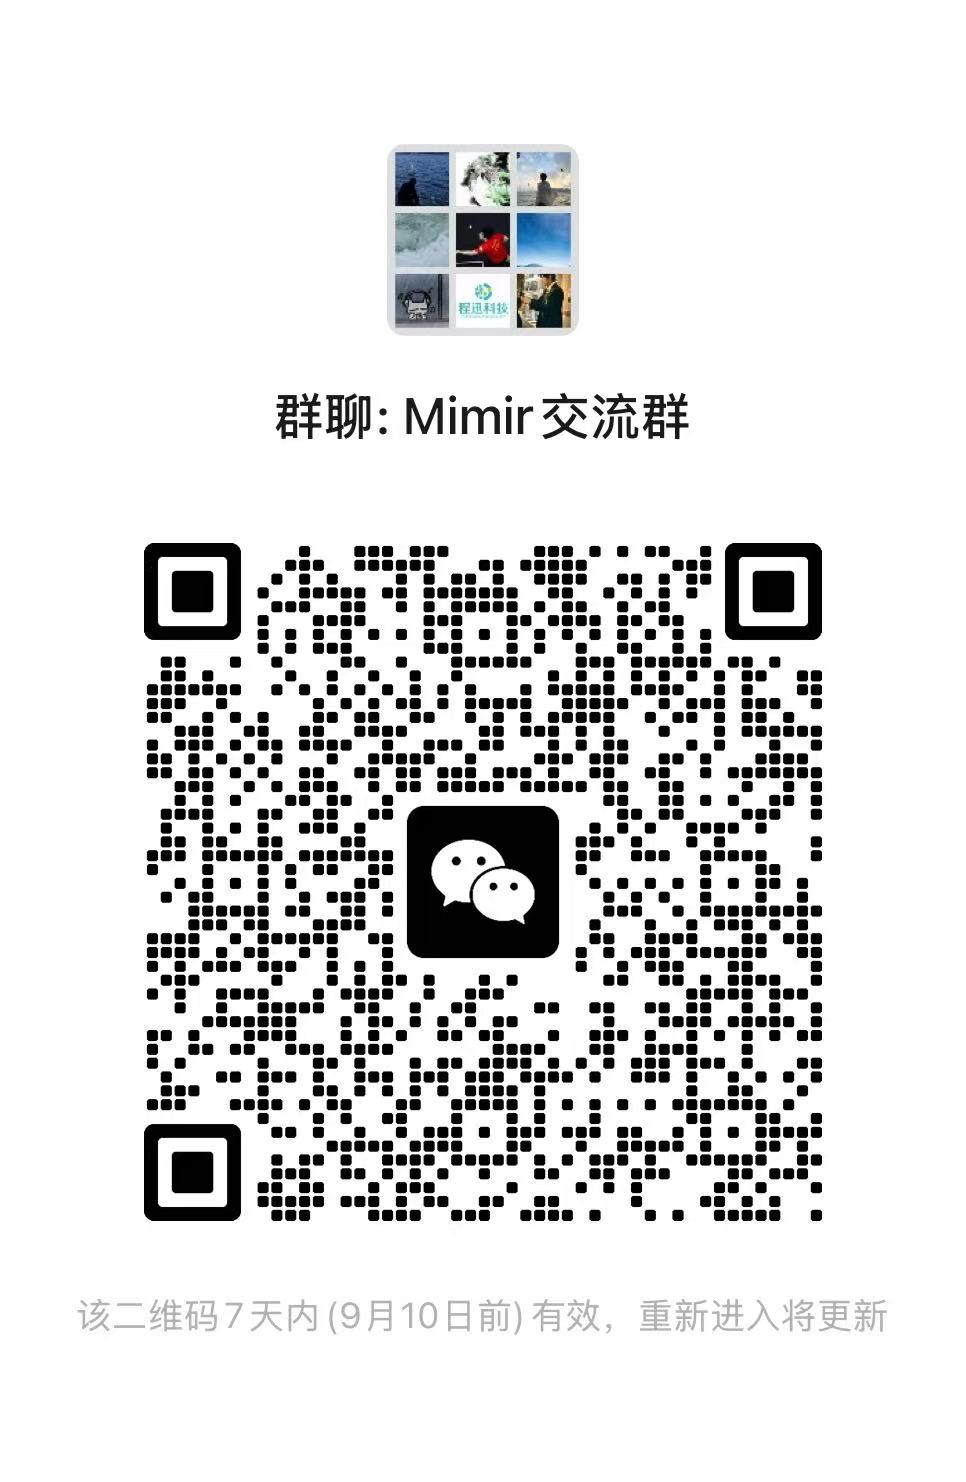
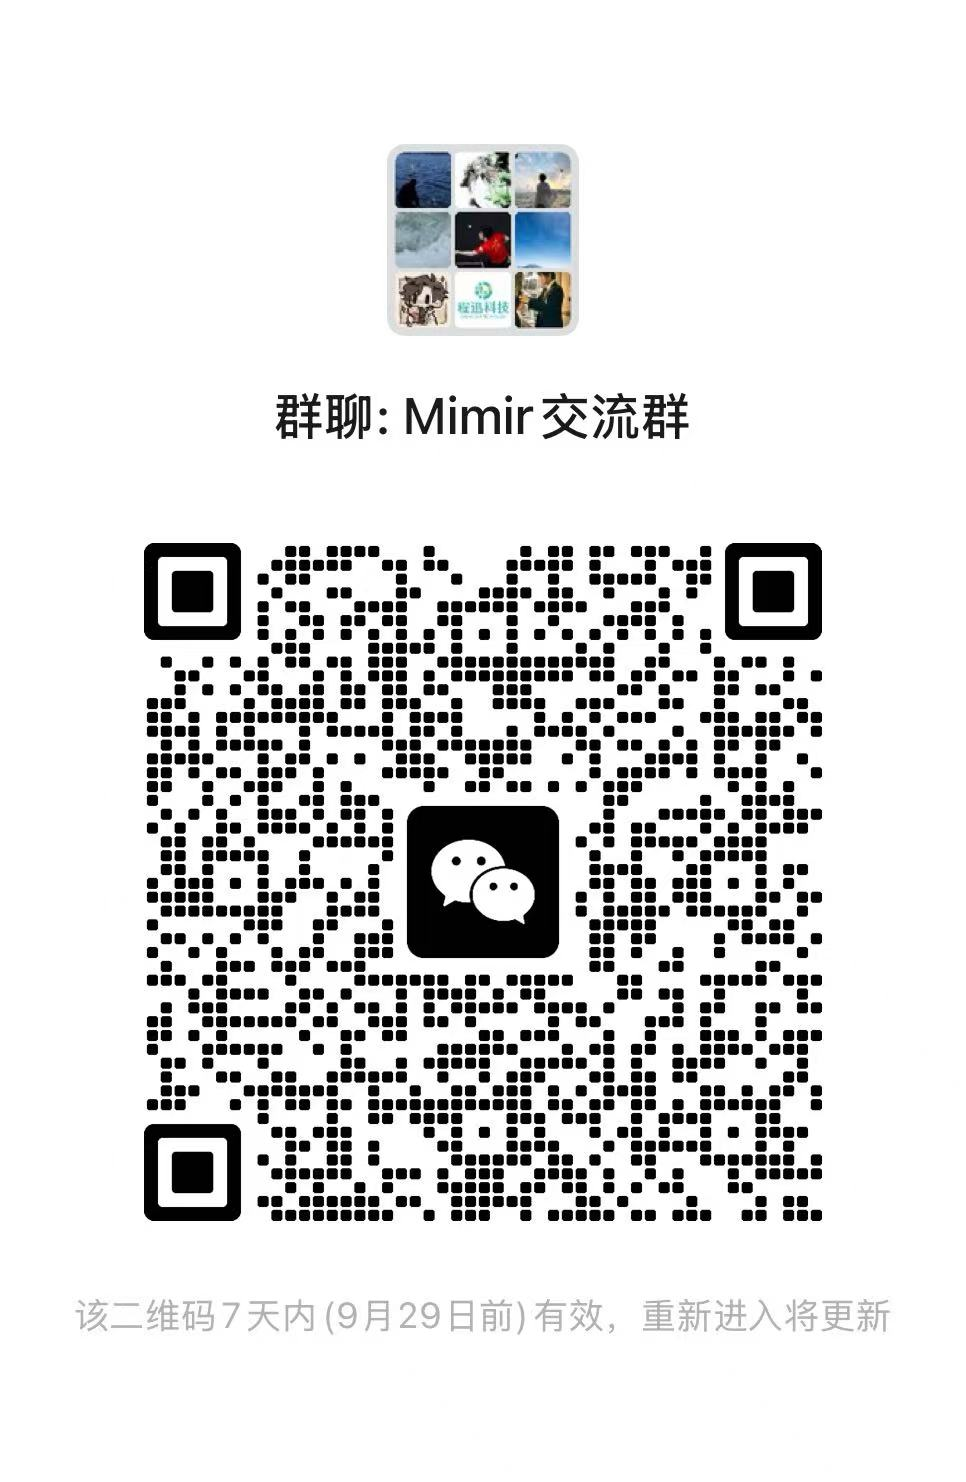
docs: refresh the WeChat group QR (valid until Sep 29)

diff --git a/website/index.html b/website/index.html
@@ -717,7 +717,7 @@ footer a { color: var(--muted); }
       <div class="qr-row">
         <figure>
           <img src="assets/wechat-group.jpg" alt="Mimir 微信交流群二维码" width="200" height="306">
-          <figcaption>微信交流群（7 天有效，过期更新）</figcaption>
+          <figcaption>微信交流群（二维码 9 月 29 日前有效，过期更新）</figcaption>
         </figure>
         <figure>
           <img src="assets/wechat-contact.jpg" alt="Mimir 维护者微信二维码" width="200" height="255">

diff --git a/README.md b/README.md
@@ -115,7 +115,7 @@ Contributors so far: [@EriXPsy](https://github.com/EriXPsy) (Ledger view, humani
 
 ## Community
 
-Questions, ideas, or show-and-tell — join the WeChat group. The group QR refreshes every 7 days; if it has expired, add Nick and he'll pull you in:
+Questions, ideas, or show-and-tell — join the WeChat group. The group QR refreshes every 7 days (the current one is valid until Sep 29); if it has expired, add Nick and he'll pull you in:
 
 <p>
   <img src="docs/wechat-group.jpg" alt="Mimir WeChat group" width="180">

diff --git a/README.zh.md b/README.zh.md
@@ -115,7 +115,7 @@ dsh web                                          # 然后打开 http://127.0.0.1
 
 ## 交流群
 
-有问题、想法或想围观开发进度，欢迎扫码进微信群。群二维码 7 天过期一次，如果过期了，加 Nick 拉你进群：
+有问题、想法或想围观开发进度，欢迎扫码进微信群。群二维码 7 天过期一次（当前二维码 9 月 29 日前有效），如果过期了，加 Nick 拉你进群：
 
 <p>
   <img src="docs/wechat-group.jpg" alt="Mimir 交流群" width="180">
